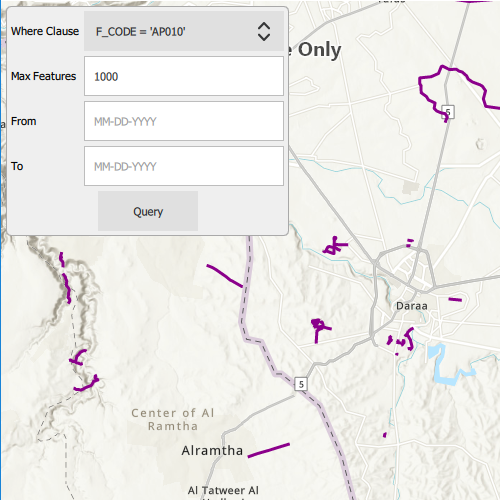
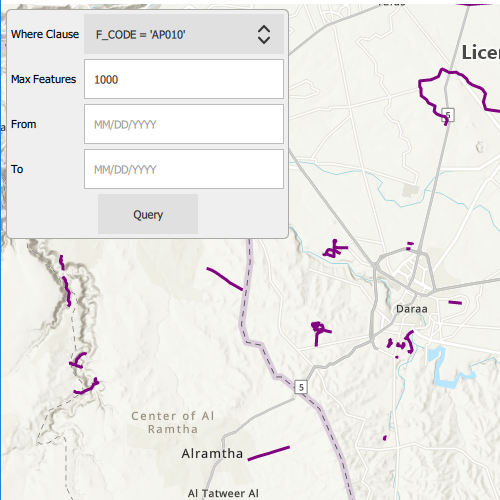
Query OGC Sample: honor date range input (#1322)
* verification feedback: Update README

* Set time extent to queryParams

* Update time extent code

* Update regex validator

* Update Readme and C++ sample to match the same date format

* Update screenshots to reflect new date format

diff --git a/ArcGISRuntimeSDKQt_QMLSamples/Layers/QueryOGCAPICQLFilters/QueryOGCAPICQLFilters.qml b/ArcGISRuntimeSDKQt_QMLSamples/Layers/QueryOGCAPICQLFilters/QueryOGCAPICQLFilters.qml
@@ -152,9 +152,9 @@ Rectangle {
                     text: ""
                     selectByMouse: true
                     validator: RegExpValidator {
-                        regExp: /(0[1-9]|1[012])[-](0[1-9]|[12][0-9]|3[01])[-](19|20)\d\d/
+                        regExp: /(0[1-9]|1[012])[/](0[1-9]|[12][0-9]|3[01])[/](19|20)\d\d/
                     }
-                    placeholderText: "MM-DD-YYYY"
+                    placeholderText: "MM/DD/YYYY"
                 }
             }
 
@@ -174,9 +174,9 @@ Rectangle {
                     text: ""
                     selectByMouse: true
                     validator: RegExpValidator {
-                        regExp: /(0[1-9]|1[012])[-](0[1-9]|[12][0-9]|3[01])[-](19|20)\d\d/
+                        regExp: /(0[1-9]|1[012])[/](0[1-9]|[12][0-9]|3[01])[/](19|20)\d\d/
                     }
-                    placeholderText: "MM-DD-YYYY"
+                    placeholderText: "MM/DD/YYYY"
                 }
             }
 
@@ -184,28 +184,26 @@ Rectangle {
                 anchors.horizontalCenter: parent.horizontalCenter
                 text: "Query"
 
-                TimeExtent {
-                    id: time
-                    startTime: new Date(fromDate.text);
-                    endTime: new Date(toDate.text);
-                }
 
                 onClicked: {
                     if (!ogcFeatureCollectionTable)
                         return;
 
-                    // create the parameters
-                    const queryParams = ArcGISRuntimeEnvironment.createObject(
-                                          "QueryParameters", {
-                                              "geometry": mapView.currentViewpointExtent.extent,
-                                              "whereClause": whereClauseMenu.currentText,
-                                              "maxFeatures": maxFeatureField.text,
-                                              "timeExtent": time
-                                          });
+                    queryParameters.whereClause = whereClauseMenu.currentText
+                    queryParameters.geometry = mapView.currentViewpointExtent.extent
+                    queryParameters.maxFeatures = maxFeatureField.text
+
+                    const newTimeExtent = ArcGISRuntimeEnvironment.createObject("TimeExtent", {
+                                                                                    "startTime": new Date(Date.fromLocaleDateString(Qt.locale(), fromDate.text, "MM/dd/yyyy")),
+                                                                                    "endTime": new Date(Date.fromLocaleDateString(Qt.locale(), toDate.text, "MM/dd/yyyy"))
+                                                                                });
+
+
+                    queryParameters.timeExtent = newTimeExtent;
 
                     // Populate the feature collection table with features that match the parameters,
                     // clear the cache to prepare for the new query results, and store all table fields
-                    ogcFeatureCollectionTable.populateFromService(queryParams, true, []);
+                    ogcFeatureCollectionTable.populateFromService(queryParameters, true, []);
                 }
             }
         }

diff --git a/ArcGISRuntimeSDKQt_CppSamples/Layers/QueryOGCAPICQLFilters/QueryOGCAPICQLFilters.qml b/ArcGISRuntimeSDKQt_CppSamples/Layers/QueryOGCAPICQLFilters/QueryOGCAPICQLFilters.qml
@@ -103,9 +103,9 @@ Item {
                 text: ""
                 selectByMouse: true
                 validator: RegExpValidator {
-                    regExp: /(0[1-9]|1[012])[-](0[1-9]|[12][0-9]|3[01])[-](19|20)\d\d/
+                    regExp: /(0[1-9]|1[012])[/](0[1-9]|[12][0-9]|3[01])[/](19|20)\d\d/
                 }
-                placeholderText: "MM-DD-YYYY"
+                placeholderText: "MM/DD/YYYY"
             }
         }
 
@@ -125,9 +125,9 @@ Item {
                 text: ""
                 selectByMouse: true
                 validator: RegExpValidator {
-                    regExp: /(0[1-9]|1[012])[-](0[1-9]|[12][0-9]|3[01])[-](19|20)\d\d/
+                    regExp: /(0[1-9]|1[012])[/](0[1-9]|[12][0-9]|3[01])[/](19|20)\d\d/
                 }
-                placeholderText: "MM-DD-YYYY"
+                placeholderText: "MM/DD/YYYY"
             }
         }
 

diff --git a/ArcGISRuntimeSDKQt_CppSamples/Layers/QueryOGCAPICQLFilters/QueryOGCAPICQLFilters.cpp b/ArcGISRuntimeSDKQt_CppSamples/Layers/QueryOGCAPICQLFilters/QueryOGCAPICQLFilters.cpp
@@ -100,8 +100,8 @@ void QueryOGCAPICQLFilters::query(const QString& whereClause, const QString& max
   queryParams.setWhereClause(whereClause);
   queryParams.setMaxFeatures(maxFeature.toUInt());
 
-  const QDateTime fromDate = QDateTime::fromString(fromDateString,"mm-dd-yyyy");
-  const QDateTime toDate = QDateTime::fromString(toDateString,"mm-dd-yyyy");
+  const QDateTime fromDate = QDateTime::fromString(fromDateString,"mm/dd/yyyy");
+  const QDateTime toDate = QDateTime::fromString(toDateString,"mm/dd/yyyy");
   const TimeExtent timeExtent(fromDate, toDate);
   queryParams.setTimeExtent(timeExtent);
 

diff --git a/ArcGISRuntimeSDKQt_CppSamples/Layers/QueryOGCAPICQLFilters/README.md b/ArcGISRuntimeSDKQt_CppSamples/Layers/QueryOGCAPICQLFilters/README.md
@@ -9,7 +9,7 @@ Query data from an OGC API feature service using CQL filters.
 CQL (Common Query Language) is an OGC-created query language used to query for subsets of features. Use CQL filters to narrow geometry results from an OGC feature table.
 
 ## How to use the sample
-The sample loads displaying a maximum of 1000 features within the OGC API feature service. Select a sample CQL query from the drop down menu. Optionally, adjust the max features value in the text box, and enter a date range such as June 13, 2011 (06-13-2011) to January 7, 2012 (01-07-2012) to narrow down the results based on time extent. Press the "Query" button to see the query applied to the OGC API features shown on the map.
+The sample loads displaying a maximum of 1000 features within the OGC API feature service. Select a sample CQL query from the drop down menu. Optionally, adjust the max features value in the text box, and enter a date range such as June 13, 2011 (06/13/2011) to January 7, 2012 (01/07/2012) to narrow down the results based on time extent. Press the "Query" button to see the query applied to the OGC API features shown on the map.
 
 ## How it works
 1. Create an `OgcFeatureCollectionTable` object using a URL to an OGC API feature service and a collection ID.

diff --git a/ArcGISRuntimeSDKQt_QMLSamples/Layers/QueryOGCAPICQLFilters/README.md b/ArcGISRuntimeSDKQt_QMLSamples/Layers/QueryOGCAPICQLFilters/README.md
@@ -9,7 +9,7 @@ Query data from an OGC API feature service using CQL filters.
 CQL (Common Query Language) is an OGC-created query language used to query for subsets of features. Use CQL filters to narrow geometry results from an OGC feature table.
 
 ## How to use the sample
-The sample loads displaying a maximum of 1000 features within the OGC API feature service. Select a sample CQL query from the drop down menu. Optionally, adjust the max features value in the text box, and enter a date range such as June 13, 2011 (06-13-2011) to January 7, 2012 (01-07-2012) to narrow down the results based on time extent. Press the "Query" button to see the query applied to the OGC API features shown on the map.
+The sample loads displaying a maximum of 1000 features within the OGC API feature service. Select a sample CQL query from the drop down menu. Optionally, adjust the max features value in the text box, and enter a date range such as June 13, 2011 (06/13/2011) to January 7, 2012 (01/07/2012) to narrow down the results based on time extent. Press the "Query" button to see the query applied to the OGC API features shown on the map.
 
 ## How it works
 1. Create an `OgcFeatureCollectionTable` object using a URL to an OGC API feature service and a collection ID.
